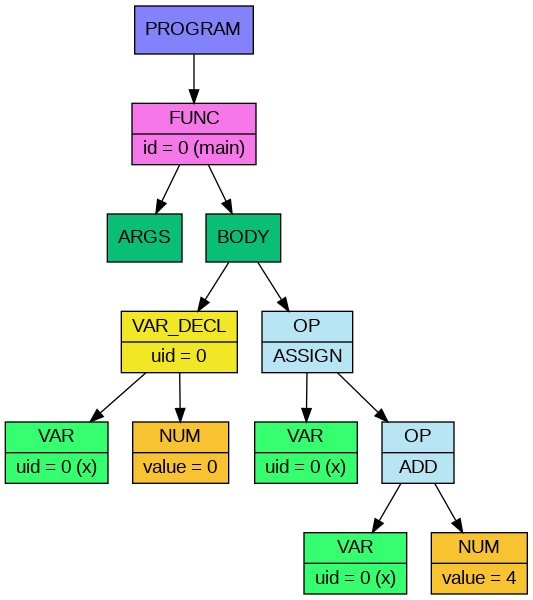
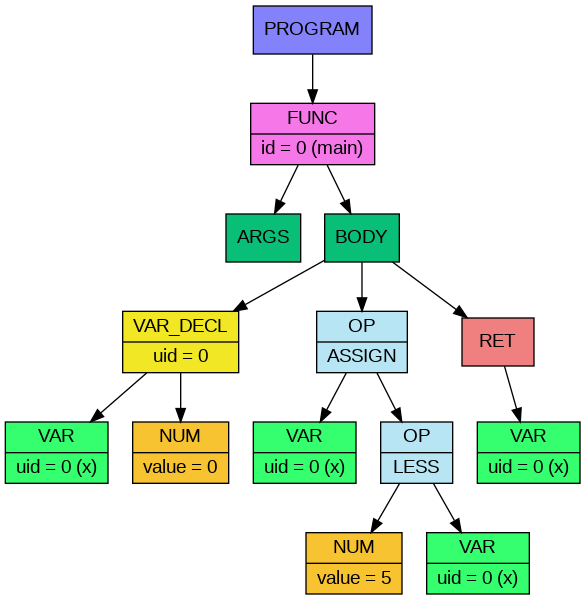
Add conditional operators

Changed region(s): [[0.0, 0.0, 1.0, 1.0], [0.6904, 0.45, 0.7205, 0.48], [0.4803, 0.45, 0.5103, 0.48]]

diff --git a/back_end/source/back_end_run.c b/back_end/source/back_end_run.c
@@ -2,9 +2,22 @@
 #include "font.h"
 #include "stdarg.h"
 
+static const cond_op cond_op_array[] =
+{
+    {IS_EQUAL,       "je"},
+    {IS_NOT_EQUAL,  "jne"},
+    {GREATER_EQUAL, "jae"},
+    {GREATER,        "ja"},
+    {LESS_EQUAL,    "jbe"},
+    {LESS,           "jb"}
+};
+
+const size_t COND_OP_ARRAY_SIZE = sizeof(cond_op_array) / sizeof(cond_op_array[0]);
+
 static size_t func_counter  = 0;
 static size_t const_counter = 0;
 static size_t local_vars_counter = 0;
+static size_t cmp_counter = 0;
 
 static char text_buffer[10000] = "";
 static size_t text_pos = 0;
@@ -14,8 +27,12 @@ static size_t rodata_pos = 0;
 
 void back_end_run(node_t* tree, FILE* const output_file, const identifier_t* const identifiers)
 {
-    text_pos += (size_t)snprintf(text_buffer, sizeof(text_buffer) - text_pos, "section .text\n\n");
-    rodata_pos += (size_t)snprintf(rodata_buffer, sizeof(rodata_buffer) - rodata_pos, "section .rodata\n\n");
+    printf_to_text_buffer("section .text\n\n");
+    printf_to_rodata_buffer("section .rodata\n\n"
+                            "const_true:\n"
+                            "\tdq 1.0\n"
+                            "const_false:\n"
+                            "\tdq 0.0\n");
 
     gen_prog(tree, identifiers);
 
@@ -84,7 +101,6 @@ void gen_op(node_t* op_node, const identifier_t* const identifiers)
             break;
 
         case NODE_VAR_DECL:
-        {
             if (op_node->child_count >= 2)
             {
                 node_t* var_node = op_node->children[0];
@@ -95,9 +111,7 @@ void gen_op(node_t* op_node, const identifier_t* const identifiers)
                 printf_to_text_buffer("\tmovsd [rbp - %zu], xmm0\t\t; variable_%d init\n\n",
                                       (size_t)(op_node->unique_id + 1) * sizeof(double), var_node->unique_id);
             }
-
             break;
-        }
 
         case NODE_OP:
             op_node_to_asm(op_node);
@@ -170,11 +184,45 @@ void op_node_to_asm(node_t* expr_node)
                                   (size_t)(expr_node->children[0]->unique_id + 1) * sizeof(double));
             break;
 
+        case IS_EQUAL:
+        case IS_NOT_EQUAL:
+        case GREATER_EQUAL:
+        case GREATER:
+        case LESS_EQUAL:
+        case LESS:
+        {
+            printf_to_text_buffer("\tmovsd xmm1, xmm0\t\t; Save right value in xmm1\n");
+            gen_expr(expr_node->children[0]);
+
+            const char* jump_word = gen_jump_command(expr_node->data_t.op);
+
+            printf_to_text_buffer("\tucomisd xmm0, xmm1\n"
+                                  "\t%s .cmp_true_%zu\n\n"
+                                  "\tmovsd xmm0, [rel const_false]\n"
+                                  "\tjmp cmp_end_%zu\n\n"
+                                  "cmp_true_%zu:\n"
+                                  "\tmovsd xmm0, [rel const_true]\n\n"
+                                  "cmp_end_%zu:",
+                                  jump_word, cmp_counter, cmp_counter, cmp_counter, cmp_counter);
+            cmp_counter++;
+        }
+
         default:
             break;
     }
 
     printf_to_text_buffer("\t\t; Operation complete\n\n");
+}
+
+const char* gen_jump_command(operator_code op)
+{
+    for (size_t i = 0; i < COND_OP_ARRAY_SIZE; i++)
+    {
+        if (cond_op_array[i].op == op)
+            return cond_op_array[i].jump_command;
+    }
+
+    return "UNKNOWN_JUMP_COMMAND";
 }
 
 size_t count_local_vars(node_t* current)

diff --git a/middle_end/source/simplifier.c b/middle_end/source/simplifier.c
@@ -24,10 +24,18 @@ node_t* simplify_node(node_t* node, bool* simplifications)
 
                 switch(op_code)
                 {
-                    case ADD: return NUM_NODE_(left_number + right_number);
-                    case SUB: return NUM_NODE_(left_number - right_number);
-                    case MUL: return NUM_NODE_(left_number * right_number);
-                    case DIV: return NUM_NODE_(left_number / right_number);
+                    case ADD:           return NUM_NODE_(left_number + right_number);
+                    case SUB:           return NUM_NODE_(left_number - right_number);
+                    case MUL:           return NUM_NODE_(left_number * right_number);
+                    case DIV:           return NUM_NODE_(left_number / right_number);
+                    case IS_EQUAL:      return NUM_NODE_(is_close_to_zero(left_number - right_number));
+                    case IS_NOT_EQUAL:  return NUM_NODE_(!is_close_to_zero(left_number - right_number));
+                    case LOGIC_OR:      return NUM_NODE_(!is_close_to_zero(left_number) || !is_close_to_zero(right_number));
+                    case LOGIC_AND:     return NUM_NODE_(!is_close_to_zero(left_number) && !is_close_to_zero(right_number));
+                    case GREATER_EQUAL: return NUM_NODE_(left_number > right_number || is_close_to_zero(left_number - right_number));
+                    case GREATER:       return NUM_NODE_(left_number > right_number);
+                    case LESS_EQUAL:    return NUM_NODE_(left_number < right_number || is_close_to_zero(left_number - right_number));
+                    case LESS:          return NUM_NODE_(left_number < right_number);
                     default:  break;
                 }
             }

diff --git a/back_end/headers/back_end.h b/back_end/headers/back_end.h
@@ -9,6 +9,12 @@ struct func_stack_frame
     
 };
 
+struct cond_op
+{
+    operator_code op;
+    const char* jump_command;
+};
+
 void back_end_run(node_t* tree, FILE* const output_file, const identifier_t* const identifiers);
 
 void gen_prog(node_t* prog_node, const identifier_t* const identifiers);
@@ -16,8 +22,8 @@ void gen_func(node_t* func_node, const identifier_t* const identifiers);
 void gen_block(node_t* block_node, const identifier_t* const identifiers);
 void gen_op(node_t* op_node, const identifier_t* const identifiers);
 void gen_expr(node_t* expr_node);
-
 void op_node_to_asm(node_t* expr_node);
+const char* gen_jump_command(operator_code op);
 
 size_t count_local_vars(node_t* current);
 size_t align_up_16(size_t number);
